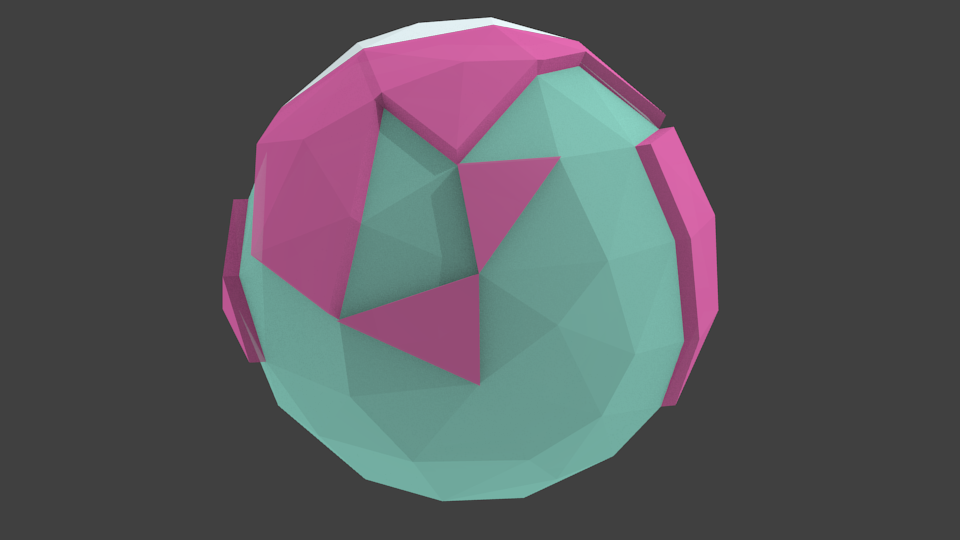
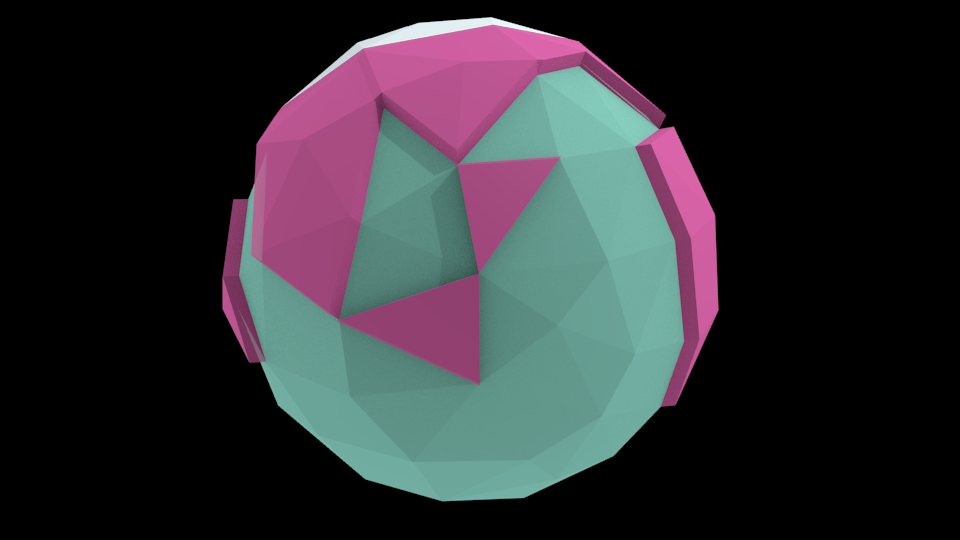
画像として加工しやすくするために背景色を黒に指定。おそらくこれで完成。

diff --git a/2013/README.md b/2013/README.md
@@ -4,3 +4,5 @@
 ## 11月
 * [20131112 『アラ、吃驚☆』01.sai](https://github.com/hattoushinha/CG_Work/commits/master/2013/20131112%20%E3%80%8E%E3%82%A2%E3%83%A9%E3%80%81%E5%90%83%E9%A9%9A%E2%98%86%E3%80%8F01.sai)
 * [20131112 『アラ、吃驚☆』02.png](https://github.com/hattoushinha/CG_Work/commits/master/2013/20131112%20%E3%80%8E%E3%82%A2%E3%83%A9%E3%80%81%E5%90%83%E9%A9%9A%E2%98%86%E3%80%8F02.png)
+* [20131116 SketchWorld.blend](https://github.com/hattoushinha/CG_Work/commits/master/2013/20131116 SketchWorld.blend)
+* [20131116 SketchWorld.png](https://github.com/hattoushinha/CG_Work/commits/master/2013/20131116 SketchWorld.png)
